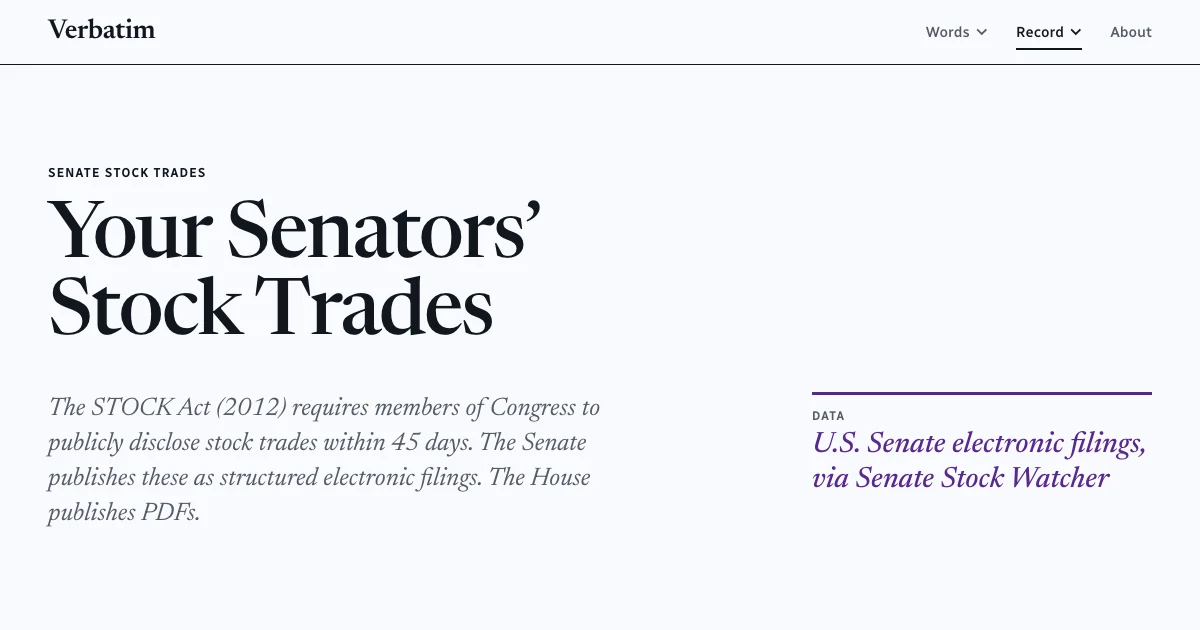
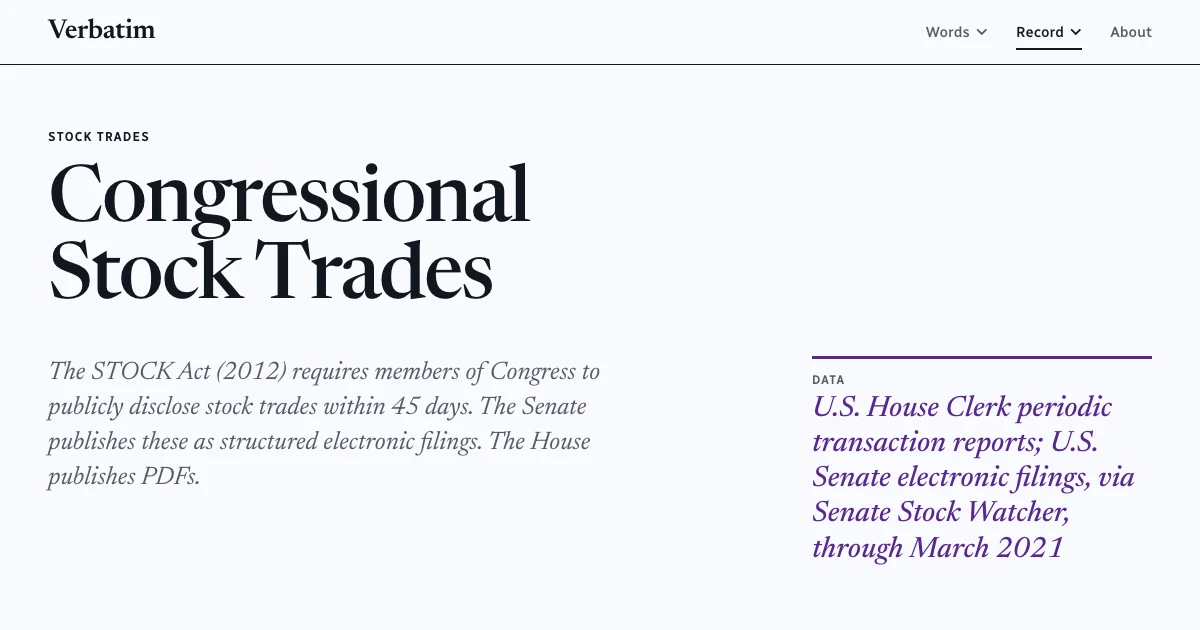
Cover both chambers on trades page

diff --git a/public/trades/index.html b/public/trades/index.html
@@ -3,15 +3,15 @@
 <head>
   <meta charset="UTF-8">
   <meta name="viewport" content="width=device-width, initial-scale=1.0">
-  <title>Senate Stock Trades — Verbatim</title>
-  <meta name="description" content="Explore U.S. Senate stock trades disclosed under the STOCK Act. 7,700+ transactions, 53 senators, 2012–2021. Search, filter, see the patterns.">
+  <title>Congressional Stock Trades — Verbatim</title>
+  <meta name="description" content="Explore stock trades disclosed by members of Congress under the STOCK Act: House periodic transaction reports since 2014 and Senate filings through March 2021. Search, filter, see the patterns.">
   <meta property="og:type" content="website">
   <meta property="og:image" content="https://verbatim.fyi/og/trades.webp">
   <meta property="og:image:width" content="1200">
   <meta property="og:image:height" content="630">
   <meta property="og:site_name" content="Verbatim">
-  <meta property="og:title" content="Senate Stock Trades — Verbatim">
-  <meta property="og:description" content="Explore U.S. Senate stock trades disclosed under the STOCK Act. 7,700+ transactions, 53 senators, 2012–2021. Search, filter, see the patterns.">
+  <meta property="og:title" content="Congressional Stock Trades — Verbatim">
+  <meta property="og:description" content="Explore stock trades disclosed by members of Congress under the STOCK Act: House periodic transaction reports since 2014 and Senate filings through March 2021. Search, filter, see the patterns.">
   <meta property="og:url" content="https://verbatim.fyi/trades/">
   <meta name="twitter:card" content="summary_large_image">
   <meta name="twitter:image" content="https://verbatim.fyi/og/trades.webp">
@@ -51,7 +51,7 @@
           <details class="nav-menu">
             <summary class="nav-link">Record<svg class="nav-caret" viewBox="0 0 10 6" aria-hidden="true"><path d="M1 1l4 4 4-4" fill="none" stroke="currentColor" stroke-width="1.5"/></svg></summary>
             <div class="nav-menu-panel">
-              <a href="/trades/" class="nav-link" aria-current="page">Senate Stock Trades</a>
+              <a href="/trades/" class="nav-link" aria-current="page">Stock Trades</a>
               <a href="/compas/" class="nav-link">COMPAS</a>
               <a href="/incidents/" class="nav-link">Fatal Force</a>
               <a href="/finance/" class="nav-link">Campaign Finance</a>
@@ -79,7 +79,7 @@
         </div>
         <div class="mobile-menu-group" role="group" aria-labelledby="mobile-menu-record">
           <p id="mobile-menu-record" class="kicker kicker-dim mobile-menu-label">Record</p>
-          <a href="/trades/" class="nav-link" aria-current="page">Senate Stock Trades</a>
+          <a href="/trades/" class="nav-link" aria-current="page">Stock Trades</a>
           <a href="/compas/" class="nav-link">COMPAS</a>
           <a href="/incidents/" class="nav-link">Fatal Force</a>
           <a href="/finance/" class="nav-link">Campaign Finance</a>
@@ -97,48 +97,43 @@
     <article>
       <!-- Story header: headline, dek, credit -->
       <header class="story-head page-wrap">
-        <p class="kicker">Senate Stock Trades</p>
+        <p class="kicker">Stock Trades</p>
         <div class="grid grid-cols-1 md:grid-cols-12 gap-x-8 gap-y-7">
-          <h1 class="headline md:col-span-10">Your Senators’ Stock Trades</h1>
+          <h1 class="headline md:col-span-10">Congressional Stock Trades</h1>
           <div class="md:col-span-7 md:row-start-2">
             <p class="dek">
               The STOCK Act (2012) requires members of Congress to publicly disclose stock trades within 45 days.
               The Senate publishes these as structured electronic filings. The House publishes PDFs.
             </p>
             <p class="prose mt-5">
-              This is the Senate data. 7,740 transactions from 53 senators, <span class="whitespace-nowrap">2012&ndash;2021</span>.
-              Every purchase, every sale, every ticker. Search it. Filter it. See who’s trading what.
+              <span data-stat="total">46,486</span> transactions from <span data-stat="members">280</span>
+              <span data-stat="noun">members of Congress</span>, <span class="whitespace-nowrap" data-stat="range">2012&ndash;2026</span>,
+              from filings through <span class="whitespace-nowrap" data-stat="last_filed">Nov 16, 2026</span>.
+              <span data-stat="sources">From the House Clerk’s electronic filings since 2014 and the Senate’s through March 2021.</span>
             </p>
           </div>
           <aside class="md:col-span-4 md:col-start-9 md:row-start-2 space-y-7">
             <p class="byline credit">
               <span class="byline-role">Data</span>
-              <span class="byline-source">U.S. Senate electronic filings, via Senate Stock Watcher</span>
+              <span class="byline-source">U.S. House Clerk periodic transaction reports; U.S. Senate electronic filings, via Senate Stock Watcher, through March 2021</span>
             </p>
-            <details class="note">
-              <summary>Why Senate only?</summary>
+            <details class="note" id="paper-note">
+              <summary>Paper filings</summary>
               <div class="note-body">
                 <p>
-                  Same law, two implementations. The Senate files electronically — structured data,
-                  machine-readable, downloadable. The House files paper forms as PDFs. To get the same
-                  information, you’d need to download thousands of individual PDFs and parse them.
+                  <span data-stat="paper_count">2,923</span> filings were submitted on paper as scanned
+                  images and are not transcribed. Each links to its scan.
                 </p>
-                <p>
-                  The one project that did this work (House Stock Watcher) went offline. Its data is gone.
-                  The Senate’s trading activity is searchable by anyone with a browser. The House’s trading
-                  activity is searchable by anyone with a PDF parsing pipeline and cloud infrastructure.
-                </p>
-                <p>
-                  Whether this is incompetence or design is left as an exercise for the reader.
-                </p>
+                <ul id="paper-list" class="note-list note-list--scroll" aria-label="Paper filings"></ul>
               </div>
             </details>
             <details class="note">
               <summary>Restrictions on use</summary>
               <div class="note-body">
                 <p>
-                  The transactions come from financial disclosure reports filed with the Senate and
-                  compiled by <a href="https://github.com/timothycarambat/senate-stock-watcher-data" target="_blank" rel="noopener" class="source-link">Senate Stock Watcher</a>
+                  The transactions come from financial disclosure reports filed with the Clerk of the
+                  House and with the Senate, the Senate’s as compiled by
+                  <a href="https://github.com/timothycarambat/senate-stock-watcher-data" target="_blank" rel="noopener" class="source-link">Senate Stock Watcher</a>
                   through March 2021. Federal law limits how the reports may be used,
                   <a href="https://www.govinfo.gov/content/pkg/USCODE-2024-title5/html/USCODE-2024-title5-partIV-chap131-subchapI-sec13107.htm" target="_blank" rel="noopener" class="source-link">5&nbsp;U.S.C. §&nbsp;13107(c)(1)</a>:
                 </p>
@@ -170,21 +165,22 @@
               </span>
             </figcaption>
             <div id="viz-trades-by-year" role="img" aria-label="Figure 1: purchases and sales by year" class="figure-plot"></div>
-            <p class="figure-source"><span class="byline-role">Source</span><span class="byline-source">U.S. Senate electronic filings, via Senate Stock Watcher</span></p>
+            <p class="figure-note" data-stat-line="after_filing" hidden><span data-stat="after_filing"></span> transactions dated after their own filing are not plotted.</p>
+            <p class="figure-source"><span class="byline-role">Source</span><span class="byline-source">U.S. House Clerk; U.S. Senate electronic filings, via Senate Stock Watcher</span></p>
           </figure>
 
           <figure class="figure">
             <figcaption class="figure-head">
               <span class="figure-num">Figure 2</span>
               <span class="figure-title">Most active traders</span>
-              <span class="figure-caption">The 15 senators with the most disclosed transactions, purchases and sales stacked. Select a bar to filter the appendix to that senator.</span>
+              <span class="figure-caption">The 15 members with the most disclosed transactions, purchases and sales stacked. Select a bar to filter the appendix to that member.</span>
               <span class="legend" aria-hidden="true">
                 <span class="legend-item"><span class="key key-purchase"></span>Purchases</span>
                 <span class="legend-item"><span class="key key-sale"></span>Sales</span>
               </span>
             </figcaption>
             <div id="viz-top-traders" role="img" aria-label="Figure 2: most active traders" class="figure-plot"></div>
-            <p class="figure-source"><span class="byline-role">Source</span><span class="byline-source">U.S. Senate electronic filings, via Senate Stock Watcher</span></p>
+            <p class="figure-source"><span class="byline-role">Source</span><span class="byline-source">U.S. House Clerk; U.S. Senate electronic filings, via Senate Stock Watcher</span></p>
           </figure>
 
           <figure class="figure">
@@ -198,7 +194,7 @@
               </span>
             </figcaption>
             <div id="viz-top-tickers" role="img" aria-label="Figure 3: most traded tickers" class="figure-plot"></div>
-            <p class="figure-source"><span class="byline-role">Source</span><span class="byline-source">U.S. Senate electronic filings, via Senate Stock Watcher</span></p>
+            <p class="figure-source"><span class="byline-role">Source</span><span class="byline-source">U.S. House Clerk; U.S. Senate electronic filings, via Senate Stock Watcher</span></p>
           </figure>
 
           <figure class="figure figure--wide">
@@ -208,7 +204,8 @@
               <span class="figure-caption">Transactions by disclosed amount range, smallest range first. Darker bars mark larger ranges.</span>
             </figcaption>
             <div id="viz-amount-distribution" role="img" aria-label="Figure 4: trade size distribution" class="figure-plot"></div>
-            <p class="figure-source"><span class="byline-role">Source</span><span class="byline-source">U.S. Senate electronic filings, via Senate Stock Watcher</span></p>
+            <p class="figure-note" data-stat-line="exact_amounts" hidden><span data-stat="exact_amounts"></span> transactions print an exact amount instead of a range and are not counted here.</p>
+            <p class="figure-source"><span class="byline-role">Source</span><span class="byline-source">U.S. House Clerk; U.S. Senate electronic filings, via Senate Stock Watcher</span></p>
           </figure>
         </div>
       </section>
@@ -221,14 +218,19 @@
               <p class="kicker mb-2">Appendix</p>
               <h2 id="appendix-title" class="appendix-title">Transactions</h2>
             </div>
-            <p class="figure-caption md:col-span-6 md:col-start-7 self-end">Search by senator, ticker or description, or narrow by senator, type and year. Selecting a bar in Figure 1 or Figure 2 sets the matching filter.</p>
+            <p class="figure-caption md:col-span-6 md:col-start-7 self-end">Search by member, ticker or description, or narrow by chamber, member, type and year. Selecting a bar in Figure 1 or Figure 2 sets the matching filter.</p>
           </div>
 
           <form id="trades-search-form" class="flex flex-wrap items-end gap-3 mb-6">
-            <input type="text" id="trades-search" aria-label="Search trades" placeholder="Search by senator, ticker, or description…"
+            <input type="text" id="trades-search" aria-label="Search trades" placeholder="Search by member, ticker, or description…"
               class="field field--search flex-1 basis-full md:basis-auto min-w-[240px]">
-            <select id="filter-senator" aria-label="Filter by senator" class="field flex-1 md:flex-none max-w-full">
-              <option value="">All senators</option>
+            <select id="filter-chamber" aria-label="Filter by chamber" class="field flex-1 md:flex-none">
+              <option value="">Both chambers</option>
+              <option value="house">House</option>
+              <option value="senate">Senate</option>
+            </select>
+            <select id="filter-member" aria-label="Filter by member" class="field flex-1 md:flex-none max-w-full">
+              <option value="">All members</option>
             </select>
             <select id="filter-type" aria-label="Filter by trade type" class="field flex-1 md:flex-none">
               <option value="">All types</option>
@@ -239,16 +241,6 @@
             </select>
             <select id="filter-year" aria-label="Filter by year" class="field flex-1 md:flex-none">
               <option value="">All years</option>
-              <option value="2021">2021</option>
-              <option value="2020">2020</option>
-              <option value="2019">2019</option>
-              <option value="2018">2018</option>
-              <option value="2017">2017</option>
-              <option value="2016">2016</option>
-              <option value="2015">2015</option>
-              <option value="2014">2014</option>
-              <option value="2013">2013</option>
-              <option value="2012">2012</option>
             </select>
             <button type="submit" class="button">Filter</button>
           </form>
@@ -262,7 +254,8 @@
               <thead>
                 <tr>
                   <th scope="col">Date</th>
-                  <th scope="col">Senator</th>
+                  <th scope="col">Filed</th>
+                  <th scope="col">Member</th>
                   <th scope="col">Ticker</th>
                   <th scope="col">Asset</th>
                   <th scope="col">Type</th>

diff --git a/public/trades/app.js b/public/trades/app.js
@@ -1,4 +1,24 @@
 import { createExplorer, html } from '../js/explorer.js';
+import { legacySenator } from '../../netlify/functions/shared/legacy-senators.js';
+
+// Links from before the House joined carry `?senator=` with the old table's
+// string ("Ron L Wyden"). It is rewritten in place, before the explorer reads
+// the URL, to the member it named and the Senate, so an old link shows the
+// senator's Senate trades it always did (legacy-senators.js). A string the
+// list does not hold is dropped: every one ever linked is in it.
+{
+  const params = new URLSearchParams(location.search);
+  if (params.has('senator')) {
+    const legacy = legacySenator(params.get('senator'));
+    params.delete('senator');
+    if (legacy && !params.get('member')) {
+      params.set('member', legacy.member);
+      if (!params.get('chamber')) params.set('chamber', 'senate');
+    }
+    const qs = params.toString();
+    history.replaceState(null, '', location.pathname + (qs ? `?${qs}` : '') + location.hash);
+  }
+}
 
 // Type key: the same purchase/sale colors the figures use
 function typeBadgeClass(type) {
@@ -13,6 +33,88 @@ function fmtDate(d) {
   return dt.toLocaleDateString('en-US', { year: 'numeric', month: 'short', day: 'numeric' });
 }
 
+const year = (d) => (d ? d.slice(0, 4) : '');
+
+// The chamber a row's member filed in, as the title before the name. The
+// figures label top traders the same way.
+const TITLE = { house: 'Rep.', senate: 'Sen.' };
+
+// Lede and source lines read off stats. Every [data-stat] span is filled
+// from the stats the explorer last fetched, which follow the chamber filter.
+const NOUN = { house: 'representatives', senate: 'senators' };
+const SOURCES = {
+  house: 'From the House Clerk’s electronic filings since 2014.',
+  senate: 'From the Senate’s electronic filings through March 2021.',
+  both: 'From the House Clerk’s electronic filings since 2014 and the Senate’s through March 2021.',
+};
+const fills = {
+  sources: (s, p) => SOURCES[p.chamber] ?? SOURCES.both,
+  total: (s) => Number(s.total).toLocaleString(),
+  members: (s) => Number(s.members).toLocaleString(),
+  noun: (s, p) => NOUN[p.chamber] ?? 'members of Congress',
+  range: (s) => `${year(s.date_range?.min)}–${year(s.date_range?.max)}`,
+  last_filed: (s) => fmtDate(s.last_filed),
+  paper_count: (s) => Number(s.paper_count).toLocaleString(),
+  after_filing: (s) => Number(s.after_filing).toLocaleString(),
+  exact_amounts: (s) => Number(s.exact_amounts).toLocaleString(),
+};
+
+function onStats(stats, params) {
+  for (const el of document.querySelectorAll('[data-stat]')) {
+    const fill = fills[el.dataset.stat];
+    if (fill) el.textContent = fill(stats, params);
+  }
+  // Lines that state a count hide when it is zero (no exact amounts in the
+  // Senate's rows).
+  for (const el of document.querySelectorAll('[data-stat-line]')) {
+    el.hidden = !Number(stats[el.dataset.statLine]);
+  }
+  paper.chamber = params.chamber ?? '';
+  if (paper.el?.open) loadPaper();
+}
+
+// Paper filings: scanned forms, recorded and linked, not transcribed. The
+// list loads when the note is first opened, and again if it is open when the
+// chamber filter changes.
+const paper = {
+  el: document.getElementById('paper-note'),
+  list: document.getElementById('paper-list'),
+  chamber: '',
+  loaded: null,
+  controller: null,
+};
+
+async function loadPaper() {
+  if (paper.loaded === paper.chamber) return;
+  paper.loaded = paper.chamber;
+  paper.controller?.abort();
+  const controller = new AbortController();
+  paper.controller = controller;
+  const qs = new URLSearchParams({ action: 'paper', ...(paper.chamber && { chamber: paper.chamber }) });
+  paper.list.replaceChildren();
+  paper.list.setAttribute('aria-busy', 'true');
+  try {
+    const res = await fetch(`/api/trades?${qs}`, { signal: controller.signal });
+    if (!res.ok) throw new Error(`HTTP ${res.status}`);
+    const rows = await res.json();
+    paper.list.innerHTML = rows.map((r) => html`
+      <li>
+        <a href="${r.url}" target="_blank" rel="noopener" class="source-link">${TITLE[r.chamber]} ${r.member}</a>
+        <span class="cell-dim">${r.state_district || ''} ${fmtDate(r.filed_date)}</span>
+      </li>
+    `).join('');
+  } catch (err) {
+    if (controller.signal.aborted) return;
+    console.error(err);
+    paper.loaded = null;
+    paper.list.textContent = 'Could not load the list. Close and reopen this note to try again.';
+  } finally {
+    if (!controller.signal.aborted) paper.list.setAttribute('aria-busy', 'false');
+  }
+}
+
+paper.el?.addEventListener('toggle', () => { if (paper.el.open) loadPaper(); });
+
 // Started now so the chunks load while the first search and stats are in flight.
 const charts = Promise.all([
   import('../../src/viz/trades-by-year.jsx'),
@@ -24,17 +126,23 @@ const charts = Promise.all([
 createExplorer({
   prefix: 'trades',
   endpoint: '/api/trades',
-  filters: ['senator', 'type', 'year'],
+  filters: ['chamber', 'member', 'type', 'year'],
+  statsKeys: ['chamber'],
   noun: 'trades',
   emptyText: 'No trades match your filters.',
   errorText: 'Could not load trades. Try again.',
   // This endpoint pages by offset, not page number.
   pageParams: (page, pageSize) => ({ pageSize, offset: (page - 1) * pageSize }),
   // The amount column prints the filing's own range string, as published.
+  // The trade date links to the filing it was read from (a Clerk PDF or the
+  // eFD page); the filed date is the default sort (decision 14).
   row: (d) => html`
     <tr>
-      <td class="cell-date">${fmtDate(d.transaction_date)}</td>
-      <td class="cell-name">${d.senator}</td>
+      <td class="cell-date">${d.url?.startsWith('https://')
+        ? html`<a href="${d.url}" target="_blank" rel="noopener" class="source-link">${fmtDate(d.transaction_date)}</a>`
+        : fmtDate(d.transaction_date)}</td>
+      <td class="cell-filed" data-label="Filed">${fmtDate(d.filed_date)}</td>
+      <td class="cell-name"><span class="cell-dim">${TITLE[d.chamber] ?? ''}</span> ${d.member ?? d.senator}</td>
       <td class="cell-ticker">${d.ticker || '—'}</td>
       <td class="cell-asset" title="${d.asset_description || ''}">${d.asset_description || '—'}</td>
       <td class="cell-type">
@@ -44,9 +152,13 @@ createExplorer({
       <td class="cell-owner cell-dim">${d.owner || '—'}</td>
     </tr>
   `,
+  // Years are the by-year chart's: rows dated after their own filing are in
+  // neither (decision 13), and stay findable by search.
   options: (stats) => ({
-    senator: (stats.senator_list || []).map((s) => [s, s]),
+    member: (stats.member_list || []).map((m) => [m.member, m.member]),
+    year: (stats.by_year || []).map((y) => String(y.year)).reverse().map((y) => [y, y]),
   }),
+  onStats,
   charts: async (stats, opts) => {
     const [
       { mountTradesByYear },

diff --git a/public/css/app.css b/public/css/app.css
@@ -540,6 +540,8 @@
   .note-body strong { font-weight: 600; color: var(--color-ink); }
   .note-list { padding-left: 1.1em; list-style: disc; }
   .note-list > li + li { margin-top: 0.35em; }
+  /* A long list (trades' paper filings) scrolls inside its note. */
+  .note-list--scroll { max-height: 12rem; overflow-y: auto; padding-right: 0.5rem; }
   /* A summary set in its own case, for copy that must render exactly as written. */
   .note--as-written summary {
     text-transform: none;
@@ -817,7 +819,7 @@
   }
   .record-table tbody tr { transition: background 0.12s; }
   .record-table tbody tr:hover { background: var(--color-ground-2); }
-  .cell-date { white-space: nowrap; color: var(--color-ink-dim); }
+  .cell-date, .cell-filed { white-space: nowrap; color: var(--color-ink-dim); }
   .cell-name { font-weight: 500; white-space: nowrap; }
   .cell-ticker {
     font-family: var(--font-label);
@@ -916,9 +918,9 @@
   }
 
   /*
-   * Below 768px each row is set as an appendix entry instead of a seven-column
-   * line: senator and amount as the entry head; date, ticker, type and owner
-   * beneath (date and ticker on minimum widths, so tickers align down the
+   * Below 768px each row is set as an appendix entry instead of an eight-column
+   * line: member and amount as the entry head; date, filed date, ticker, type
+   * and owner beneath (date and ticker on minimum widths, so tickers align down the
    * list); then the asset description, clamped to two lines (the full text
    * stays in the title attribute, as on desktop).
    *
@@ -976,6 +978,7 @@
       font-size: 0.78rem;
     }
     .record-table td.cell-date { order: 3; min-width: 5.9em; }
+    .record-table td.cell-filed { order: 3; }
     .record-table td.cell-ticker { order: 4; min-width: 3.8em; }
     .record-table td.cell-type { order: 5; }
     .record-table td.cell-owner { order: 6; margin-left: auto; text-align: right; }
